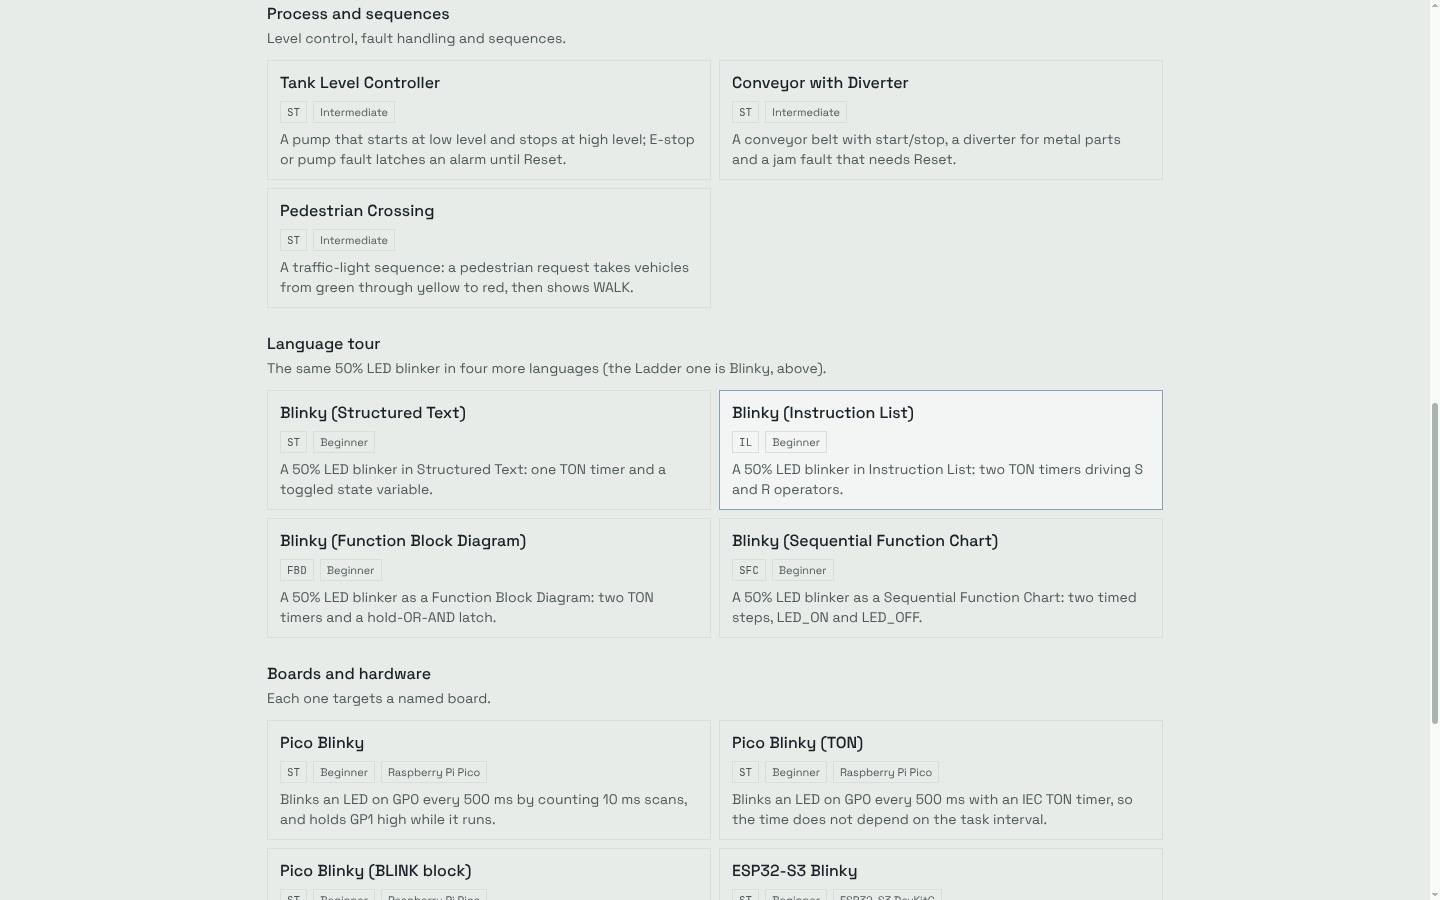
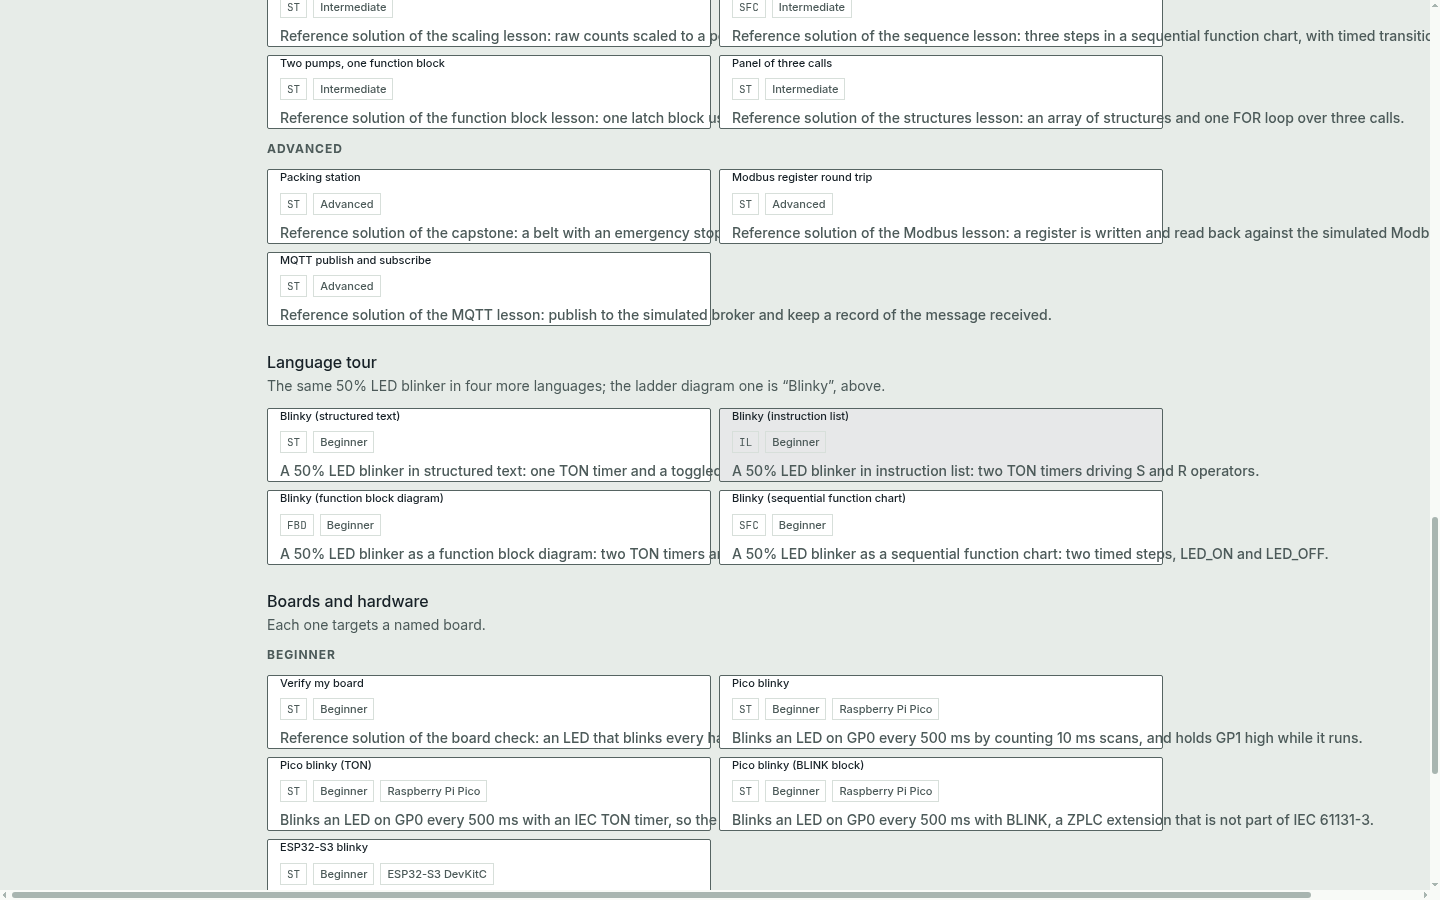
docs: retake the application captures in the new light and dark themes
Every capture of the manifest is taken again from the same commit: the six
tutorial steps, the ten language editors in English and Spanish, and the
first lesson of Learn. Learn is now also captured in the dark theme, in
both languages, and the landing shows the dark capture in its dark mode.

Changed region(s): [[0.0, 0.0, 1.0, 1.0], [0.9688, 0.4667, 1.0, 0.56], [0.9688, 0.8089, 1.0, 0.84]]

diff --git a/docs/src/components/LandingPage/Learn.js b/docs/src/components/LandingPage/Learn.js
@@ -8,6 +8,7 @@ import { useLandingPageContent } from './content';
 export default function Learn() {
   const { learn } = useLandingPageContent();
   const shot = useBaseUrl(`/img/${learn.shot}`);
+  const shotDark = useBaseUrl(`/img/${learn.shotDark}`);
   const generated = useBaseUrl('/img/generated/');
 
   return (
@@ -27,7 +28,24 @@ export default function Learn() {
               </div>
             ))}
           </dl>
-          <img className={styles.learnShot} src={shot} alt={learn.captureAlt} width="1440" height="900" loading="lazy" decoding="async" />
+          {/* The capture in the theme of the page: the dark one is the application in its dark theme. */}
+          <span className={styles.learnShot}>
+            {[
+              ['light', shot],
+              ['dark', shotDark],
+            ].map(([theme, src]) => (
+              <img
+                key={theme}
+                className={`zplc-${theme}-only`}
+                src={src}
+                alt={learn.captureAlt}
+                width="1440"
+                height="900"
+                loading="lazy"
+                decoding="async"
+              />
+            ))}
+          </span>
         </div>
 
         <h3 className={styles.subTitle}>{learn.courseTitle}</h3>

diff --git a/docs/src/components/LandingPage/content.js b/docs/src/components/LandingPage/content.js
@@ -703,6 +703,7 @@ export function getLandingPageContent(locale) {
       modules: content.learn.modules.map((title, index) => ({ number: index, title, level: moduleLevels[index] })),
       plants: plantIds.map((plant) => ({ ...plant, ...content.learn.plants[plant.key] })),
       shot: `learn/lesson-checked-${lang}.png`,
+      shotDark: `learn/lesson-checked-${lang}-dark.png`,
     },
   };
 }

diff --git a/docs/src/components/LandingPage/LandingPage.module.css b/docs/src/components/LandingPage/LandingPage.module.css
@@ -753,6 +753,10 @@
 
 .learnShot {
   display: block;
+}
+
+.learnShot img {
+  display: block;
   width: 100%;
   height: auto;
   border: 1px solid var(--zplc-rule);
